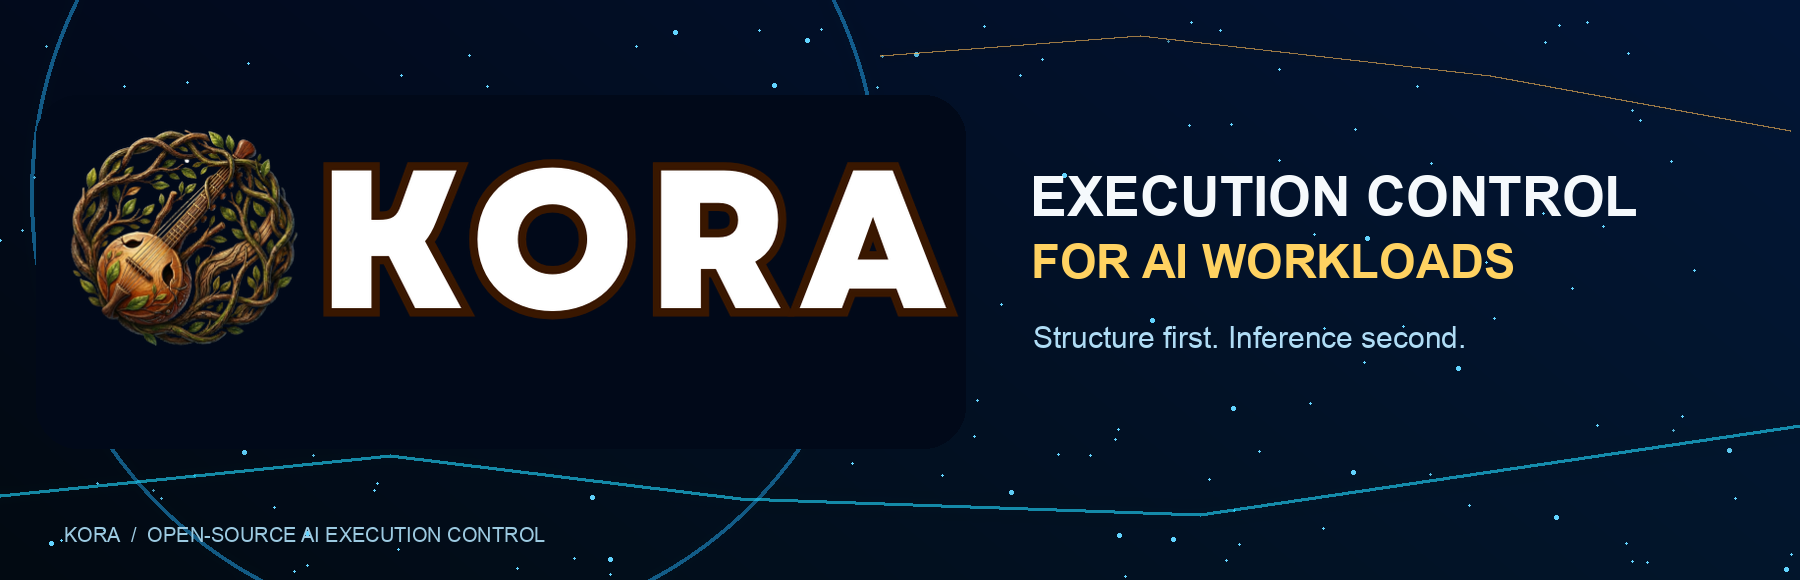
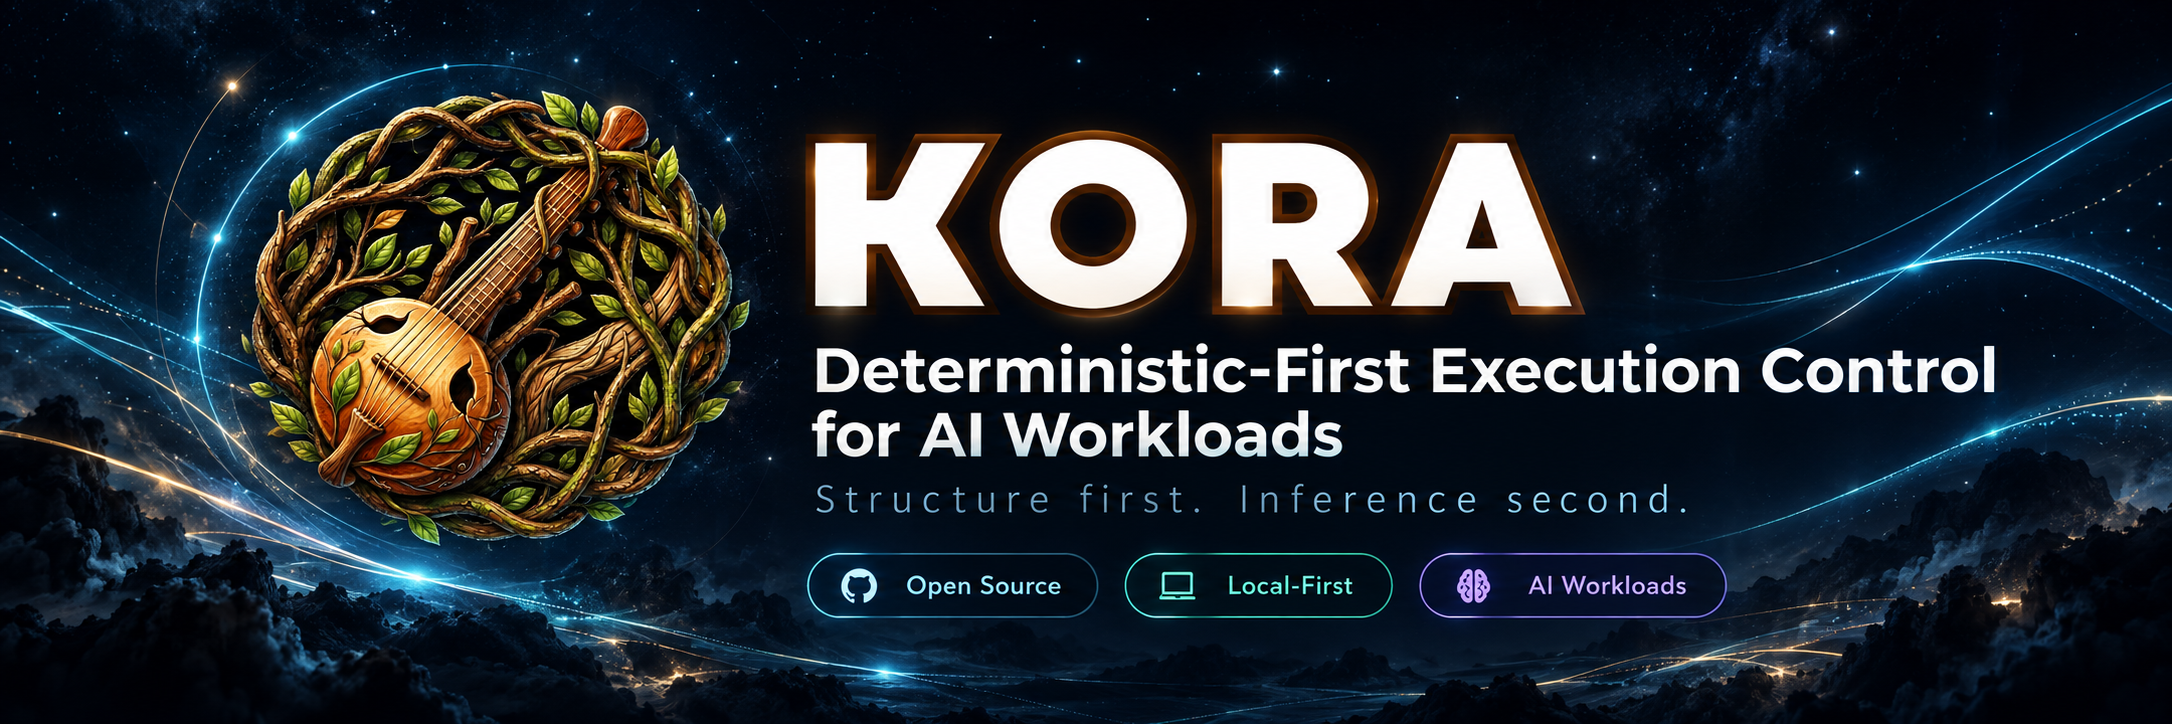
docs: use approved KORA hero and center standard badges

diff --git a/README.md b/README.md
@@ -6,16 +6,20 @@
 
 <br />
 
-[![CI](https://github.com/Krako-Labs/KORA/actions/workflows/ci.yml/badge.svg?branch=main)](https://github.com/Krako-Labs/KORA/actions/workflows/ci.yml)
-[![License: Apache 2.0](https://img.shields.io/badge/license-Apache%202.0-blue)](LICENSE)
-[![Python 3.10+](https://img.shields.io/badge/python-%3E%3D3.10-3776AB?logo=python&logoColor=white)](pyproject.toml)
-[![arXiv: 2610.35869](https://img.shields.io/badge/arXiv-2610.35869-b31b1b)](https://arxiv.org/abs/2610.35869)
+<p align="center">
+  <a href="https://github.com/Krako-Labs/KORA/actions/workflows/ci.yml"><img src="https://github.com/Krako-Labs/KORA/actions/workflows/ci.yml/badge.svg?branch=main" alt="CI" /></a>
+  <a href="LICENSE"><img src="https://img.shields.io/badge/license-Apache%202.0-blue" alt="License: Apache 2.0" /></a>
+  <a href="pyproject.toml"><img src="https://img.shields.io/badge/python-%3E%3D3.10-3776AB?logo=python&amp;logoColor=white" alt="Python 3.10+" /></a>
+  <a href="https://arxiv.org/abs/2610.35869"><img src="https://img.shields.io/badge/arXiv-2610.35869-b31b1b" alt="arXiv: 2610.35869" /></a>
+</p>
 
-[![GitHub Stars](https://img.shields.io/github/stars/Krako-Labs/KORA?style=flat&logo=github)](https://github.com/Krako-Labs/KORA/stargazers)
-[![GitHub Forks](https://img.shields.io/github/forks/Krako-Labs/KORA?style=flat&logo=github)](https://github.com/Krako-Labs/KORA/forks)
-[![Open Issues](https://img.shields.io/github/issues/Krako-Labs/KORA?style=flat&logo=github)](https://github.com/Krako-Labs/KORA/issues)
-[![Last Commit](https://img.shields.io/github/last-commit/Krako-Labs/KORA?style=flat&logo=github)](https://github.com/Krako-Labs/KORA/commits/main)
-[![Krako Labs Website](https://img.shields.io/badge/website-krako.xyz-0A84FF?style=flat&logo=googlechrome&logoColor=white)](https://krako.xyz/)
+<p align="center">
+  <a href="https://github.com/Krako-Labs/KORA/stargazers"><img src="https://img.shields.io/github/stars/Krako-Labs/KORA?style=flat&amp;logo=github" alt="GitHub Stars" /></a>
+  <a href="https://github.com/Krako-Labs/KORA/forks"><img src="https://img.shields.io/github/forks/Krako-Labs/KORA?style=flat&amp;logo=github" alt="GitHub Forks" /></a>
+  <a href="https://github.com/Krako-Labs/KORA/issues"><img src="https://img.shields.io/github/issues/Krako-Labs/KORA?style=flat&amp;logo=github" alt="Open Issues" /></a>
+  <a href="https://github.com/Krako-Labs/KORA/commits/main"><img src="https://img.shields.io/github/last-commit/Krako-Labs/KORA?style=flat&amp;logo=github" alt="Last Commit" /></a>
+  <a href="https://krako.xyz/"><img src="https://img.shields.io/badge/website-krako.xyz-0A84FF?style=flat&amp;logo=googlechrome&amp;logoColor=white" alt="Krako Labs Website" /></a>
+</p>
 
 <br />
 

diff --git a/docs/assets/readme-v2/README.md b/docs/assets/readme-v2/README.md
@@ -3,7 +3,7 @@
 This directory contains PNG presentation assets used by the root README.
 
 - `kora-original-horizontal-logo.png`: original KORA logo supplied by the project owner, preserved without redesign.
-- `kora-readme-hero.png`: landscape composition using that original logo, with dark-navy background and descriptive typography.
+- `kora-readme-hero.png`: the approved 2172x724 cosmic hero image, copied byte-for-byte from MP Downloads on 2026-10-28. Includes krako.xyz and a small Krako octopus mark. Do not regenerate this approved image.
 - `kora-execution-control-diagram.png`: derived from the existing public `../kora-execution-control-overview.png`. The original diagram's top internal headline was cropped, while its model-first and KORA-controlled paths remain unchanged. Plain-text KORA marks the upper left, with a small original emblem at the lower right. The section heading and caption remain *outside* the bitmap in the README.
 
 These are presentation graphics, not benchmark evidence. Documentation claims must continue to follow [the claim registry](../../claims/kora-claim-registry.md). The logo artwork was supplied by the project owner; its inclusion should not be read as an independent third-party license grant.
